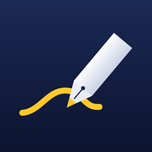
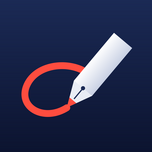
アイコンを赤入れ（赤丸とペン先）のデザインに変更
Claude-Session: https://claude.ai/code/session_01J6eAFvD5fMocDnWhMNJRmB

Changed region(s): [[0.1053, 0.3947, 0.5526, 0.7895], [0.5263, 0.6316, 0.6842, 0.7368]]

diff --git a/index.html b/index.html
@@ -10,10 +10,10 @@
 <meta name="theme-color" content="#fbfbfc" media="(prefers-color-scheme: light)">
 <meta name="theme-color" content="#1f2227" media="(prefers-color-scheme: dark)">
 <link rel="manifest" href="manifest.webmanifest">
-<link rel="apple-touch-icon" href="apple-touch-icon.png?v=2">
-<link rel="apple-touch-icon" sizes="152x152" href="icons/icon-152.png?v=2">
-<link rel="apple-touch-icon" sizes="167x167" href="icons/icon-167.png?v=2">
-<link rel="apple-touch-icon" sizes="180x180" href="icons/icon-180.png?v=2">
+<link rel="apple-touch-icon" href="apple-touch-icon.png?v=3">
+<link rel="apple-touch-icon" sizes="152x152" href="icons/icon-152.png?v=3">
+<link rel="apple-touch-icon" sizes="167x167" href="icons/icon-167.png?v=3">
+<link rel="apple-touch-icon" sizes="180x180" href="icons/icon-180.png?v=3">
 <link rel="icon" type="image/png" sizes="32x32" href="icons/icon-32.png">
 <title>AkaNib</title>
 <link rel="preconnect" href="https://fonts.googleapis.com">
@@ -187,7 +187,7 @@ button,label.btn{font:inherit;color:inherit}
   <button class="btn" id="seldel">削除</button>
 </div>
 <div class="install" id="install" hidden>
-  <img src="icons/icon-180.png?v=2" alt="">
+  <img src="icons/icon-180.png?v=3" alt="">
   <div><b>ホーム画面に追加できます</b><br>上の共有ボタン <svg viewBox="0 0 24 24" width="14" height="14" fill="none" stroke="currentColor" stroke-width="2" style="vertical-align:-2px"><path d="M12 15V3.5M7.5 8L12 3.5 16.5 8"/><path d="M5 12.5V19a1.5 1.5 0 0 0 1.5 1.5h11A1.5 1.5 0 0 0 19 19v-6.5"/></svg> →「ホーム画面に追加」</div>
   <button class="btn" id="installclose" aria-label="閉じる">✕</button>
 </div>

diff --git a/sw.js b/sw.js
@@ -1,5 +1,5 @@
 // オフラインでも起動できるよう、アプリ本体とライブラリをキャッシュする
-const VERSION = 'pdfnote-v4';
+const VERSION = 'pdfnote-v5';
 const CORE = ['./', './index.html', './manifest.webmanifest', './apple-touch-icon.png',
   './icons/icon-180.png', './icons/icon-192.png', './icons/icon-512.png', './icons/icon-32.png'];
 const CDN = ['https://cdnjs.cloudflare.com/', 'https://cdn.jsdelivr.net/', 'https://fonts.googleapis.com/', 'https://fonts.gstatic.com/'];
